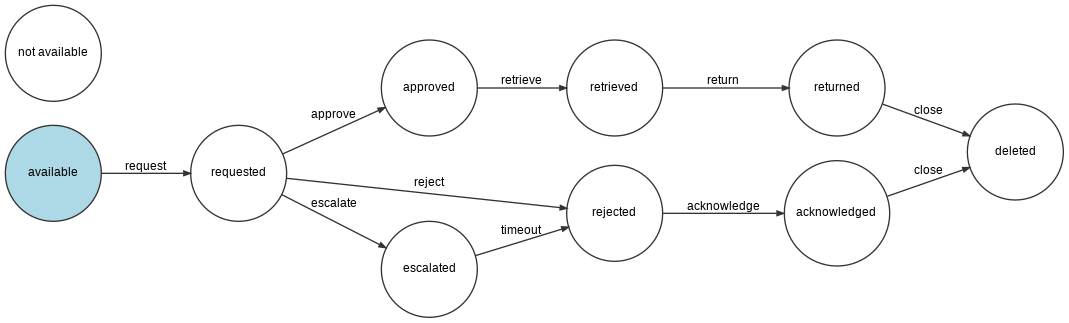
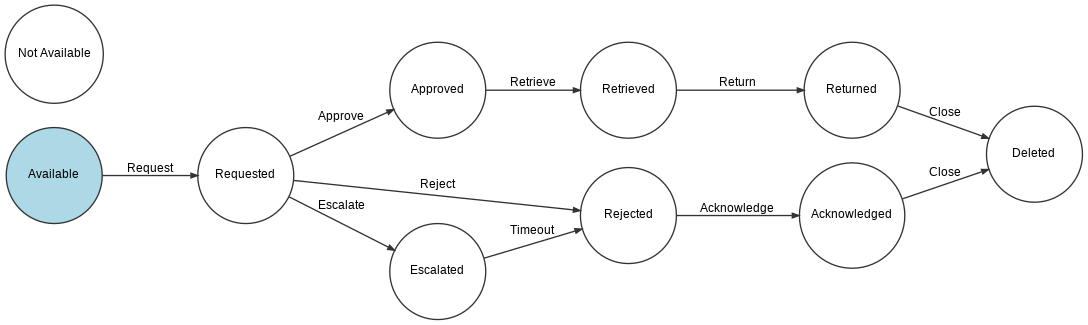
format name in templates and image maps

diff --git a/xardata/config.workflows.php b/xardata/config.workflows.php
@@ -43,19 +43,19 @@ return [
             //    'from' => ['waiting'],
             //    'to' => ['hooked'],
             //],
-            'create event' => [
+            'create_event' => [
                 'from' => ['waiting'],
                 'to' => ['created'],
             ],
-            'update event' => [
+            'update_event' => [
                 'from' => ['waiting'],
                 'to' => ['updated'],
             ],
-            'delete event' => [
+            'delete_event' => [
                 'from' => ['waiting'],
                 'to' => ['deleted'],
             ],
-            'display event' => [
+            'display_event' => [
                 'from' => ['waiting'],
                 'to' => ['displayed'],
             ],
@@ -93,7 +93,7 @@ return [
             'retrieved',
             'returned',
             'deleted',
-            'not available',
+            'not_available',
         ],
         // @todo custom templates to use for particular places?
         'templates' => [
@@ -121,7 +121,7 @@ return [
             ],
             'retrieve' => [
                 'from' => 'approved',
-                'to' => ['retrieved', 'not available'],  // two places not supported for state_machine, pick the first
+                'to' => ['retrieved', 'not_available'],  // two places not supported for state_machine, pick the first
                 // here you can specify callback functions to update the actual objects once the transition is completed
                 //'completed' => $callbackFuncs['cd_loans.completed.retrieve'],
                 // or you can update the actual objects in predefined ways

diff --git a/class/dumper.php b/class/dumper.php
@@ -25,11 +25,17 @@ class xarWorkflowDumper extends StateMachineGraphvizDumper
         $this->baseURL = $sitePrefix . '/index.php?module=workflow&type=user&func=test&workflow=' . $workflowName;
     }
 
+    public function formatName(string $name)
+    {
+        return ucwords(str_replace('_', ' ', $name));
+    }
+
     protected function findPlaces(Definition $definition, Marking $marking = null): array
     {
         $places = parent::findPlaces($definition, $marking);
         foreach (array_keys($places) as $place) {
             $places[$place]['attributes']['href'] = $this->baseURL . '&place=' . $place;
+            $places[$place]['attributes']['name'] = $this->formatName($place);
         }
         return $places;
     }
@@ -41,6 +47,7 @@ class xarWorkflowDumper extends StateMachineGraphvizDumper
             $edgelist = [];
             foreach ($edges[$from] as $edge) {
                 $edge['attributes']['href'] = $this->baseURL . '&transition=' . $edge['name'];
+                $edge['name'] = $this->formatName($edge['name']);
                 $edgelist[] = $edge;
             }
             $edges[$from] = $edgelist;

diff --git a/xaradmin/modifyconfig.php b/xaradmin/modifyconfig.php
@@ -150,9 +150,9 @@ function workflow_admin_modifyconfig()
         $start = $info['initial_marking'];
         $start = !is_array($start) ?: $start[0];
         $label = ($info['label'] ?? $workflowName) . " : $start";
-        $label = ucwords(implode(' ', explode('_', $label)));
+        $label = xarWorkflowConfig::formatName($label);
         foreach ($info['transitions'] as $transitionName => $fromto) {
-            $name = ucwords(implode(' ', explode('_', $transitionName)));
+            $name = xarWorkflowConfig::formatName($transitionName);
             if (is_array($fromto['from']) && in_array($start, $fromto['from'])) {
                 //$data['transitions'][$workflowName] ??= [];
                 //$data['transitions'][$workflowName][$transitionName] = "$label - $name";

diff --git a/xaruser/test_run.php b/xaruser/test_run.php
@@ -128,7 +128,7 @@ function workflow_user_test_run()
     if ($workflow->can($subject, $data['transition'])) {
         $marking = $workflow->apply($subject, $data['transition']);
         $data['place'] = implode(', ', array_keys($marking->getPlaces()));
-        $data['message'] = "The transition of subject " . $subject->getId() . " to " . ucwords(implode(' ', explode('_', $data['place']))) . " was successful";
+        $data['message'] = "The transition of subject " . $subject->getId() . " to " . xarWorkflowConfig::formatName($data['place']) . " was successful";
     } else {
         $blockers = $workflow->buildTransitionBlockerList($subject, $data['transition']);
         $msg = 'Invalid #(1) for #(2) function #(3)() in module #(4)';

diff --git a/class/config.php b/class/config.php
@@ -38,6 +38,11 @@ class xarWorkflowConfig extends xarObject
         return static::$config;
     }
 
+    public static function formatName(string $name)
+    {
+        return ucwords(str_replace('_', ' ', $name));
+    }
+
     public static function checkAutoload()
     {
         // @checkme we need to require composer autoload here
